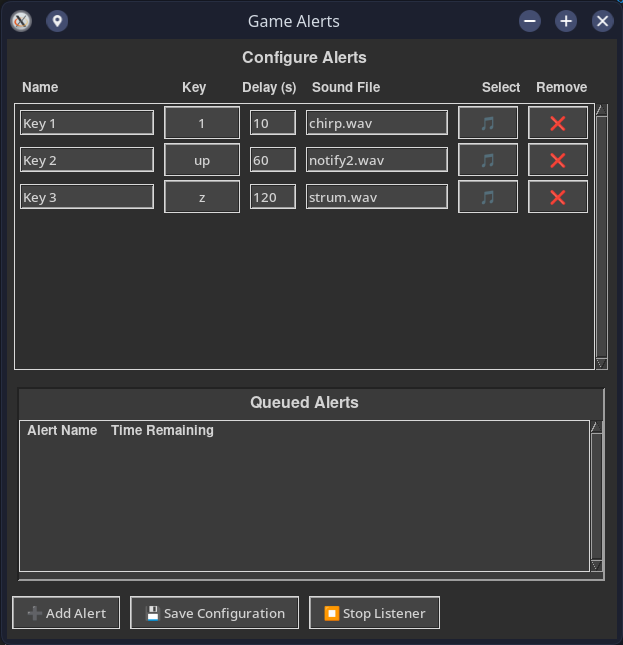
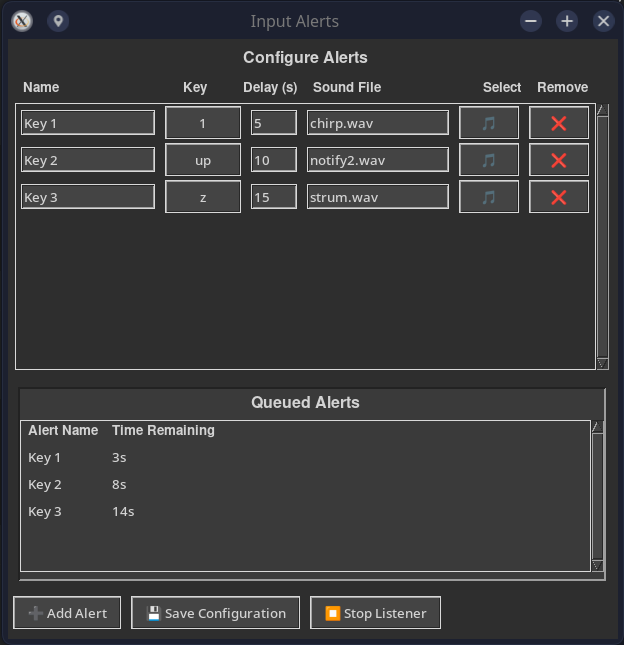
Changed screenshot and modified window title

diff --git a/InputAlerts.py b/InputAlerts.py
@@ -266,7 +266,7 @@ class AlertConfigurator(tk.Tk):
 
     def __init__(self):
         super().__init__()
-        self.title("Game Alerts")
+        self.title("Input Alerts")
         self.geometry("610x600")
         self.configure(bg="#2E2E2E")
         self.entries = []
